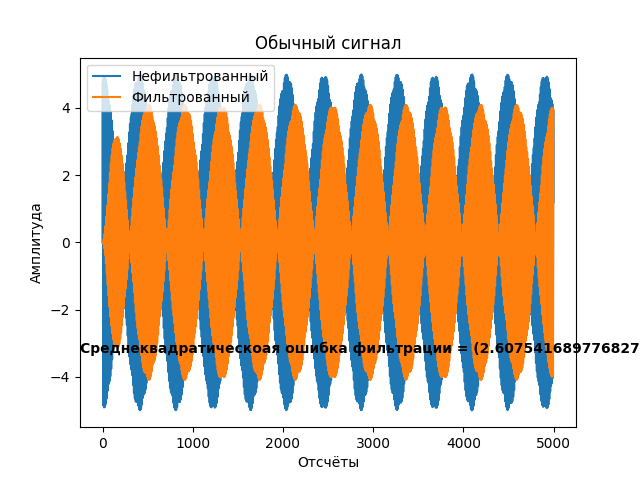
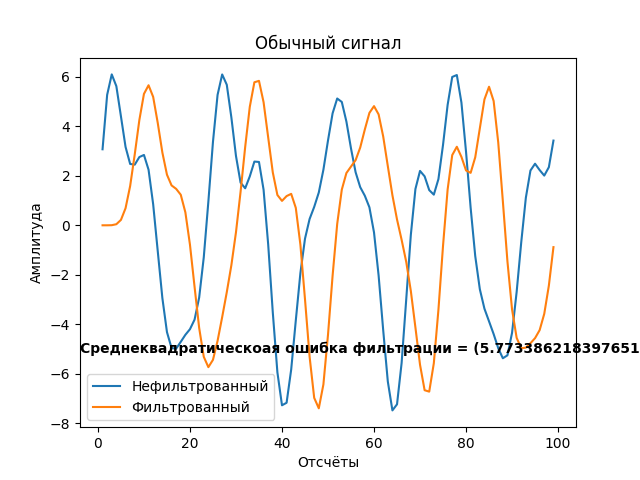
sldf

diff --git a/MetUstrCifrObr/1sem/practika/prac3/prac3.py b/MetUstrCifrObr/1sem/practika/prac3/prac3.py
@@ -112,7 +112,7 @@ def filter_signal(input_signal):
     input_signal = np.array(input_signal)
 
     # Создаём фильтр
-    our_filter = generate_filter('BPF', 'Butterworth', 2, fv=410, fn=390)
+    our_filter = generate_filter('LPF', 'Butterworth', 8, fv=500)
 
     # Применяем его на сигнале
     output_signal = fp.fft(input_signal) * our_filter
@@ -154,10 +154,10 @@ def main():
     A2 = 4
     
     f0 = 171.36
-    f1 = 410.11
-    f2 = 400.33
+    f1 = 478.11
+    f2 = 362.33
 
-    signal_harmonics = {A1:f1, A2:f2}
+    signal_harmonics = {A0:f0, A1:f1, A2:f2}
 
     signal_discritisation = np.linspace(0, N-1, N) * delta_T
 
@@ -176,8 +176,8 @@ def main():
     e_usuall_signal = np.sqrt((1/N) * sum((filtered_usuall_signal - usuall_signal)**2))
 
     # Строим график сигнала
-    range_const = 5000
-    plot_range = range(0, range_const, 1)
+    range_const = 100
+    plot_range = range(1, range_const, 1)
     usuall_signal_window = plt.figure()
     usuall_signal_ax = usuall_signal_window.add_subplot(111)
     usuall_signal_ax.plot(plot_range, usuall_signal[plot_range], label='Нефильтрованный')

diff --git a/MetUstrCifrObr/1sem/practika/prac3/README.md b/MetUstrCifrObr/1sem/practika/prac3/README.md
@@ -1,1 +1,25 @@
-В рамках практической работы был изучен метод фильтрации сигналов в спектральном пространстве с использованием алгоритма быстрого преобразования Фурье.
+# Задание
+
+Изучить метод фильтрации сигналов в спектральном пространстве с использованием алгоритма быстрого преобразования Фурье. В качестве фильтра используется ФНЧ Баттерворта 8-ого порядка с частотой среза 500 Гц.
+
+# Результат
+
+Сгенерирован синусоидальный сигнал со следующими частотами гармоник 171.36, 478.11, 362.33 и амплитудами гармоник 5, 3, 4 соотвественно. Далее, сигнал профильтрован с помощью ФНЧ с параметрами указанными в задании:
+
+![Обычный сигнал](<График фильтрации обычного сигнала.png>)
+
+Фильтрация сигнала после добавления к нему гауссовской помехи с мат. ожиданием равным 0 и дисперсией равной 1:
+
+![Гауссова помеха](<Результат фильтрации силнала с гауссовским шумом.png>)
+
+Фильтрация сигнала с гармонической состоящей из двух гармоник синусоидального сигнала с частотами 557 и 950 Гц и амплитудами равными 1:
+
+![Гармоническая помеха](<Результат фильтрации сигнала с гармоническим шумом.png>)
+
+Проведено сравнение АЧХ разных видов фильтров:
+
+![АЧХ фильтров](<АЧХ фильтров.png>)
+
+# Выводы
+
+В результате фильтрации было замечено, что фильтрованный сигнал сдвинут по фазе. Меньше всего он сдвинут по фазе у фильтров Бесселя. Так же, было замечено, что у фильтров Бесселя очень плавная кривая подавления (что видно на последнем рисуноке) из-за чего смысла использовать его в качестве ФНЧ и ФВЧ, в контексте задач фильтрации гармонических и гауссовских шумов не очень много. Лучше всего себя в данной задаче проявили фильтры Баттерворта, так как они имеют наибольшую крутизну среза.

diff --git a/MetUstrCifrObr/1sem/labi/lab2/README.md b/MetUstrCifrObr/1sem/labi/lab2/README.md
@@ -22,4 +22,4 @@
 
 # Выводы
 
-В ходе лабораторной, опытным путём было выяснено, что вывод амплитудного спектра сигнала с использованием логарифмического масштаба более информативно. На основе спектра сигнала была подобрана оконная функция высокого разрешения, которая позволила точнее различать гармоники сигнала, а так же подавить искажения от дополнения сигнала нулями.
+В ходе лабораторной, опытным путём было выяснено, что вывод амплитудного спектра сигнала с использованием логарифмического масштаба более информативно. На основе спектра сигнала была подобрана оконная функция высокого разрешения, которая позволила точнее различать гармоники сигнала, а так же подавить искажения от дополнения сигнала нулями. 

diff --git a/MetUstrCifrObr/1sem/practika/prac2/README.md b/MetUstrCifrObr/1sem/practika/prac2/README.md
@@ -4,7 +4,7 @@
 
 # Результат
 
-Сгенерирован синусоидальный сигнал с тремя частотами гармоник: 171.36, 173.11, 662.33
+Сгенерирован синусоидальный сигнал со следующими частотами гармоник 171.36, 173.11, 662.33 и амплитудами гармоник 5, 3, 4 соотвественно
 
 ![Обычный сигнал](<График обычного дискретизированного сигнала.png>)
 
